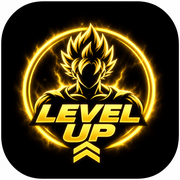
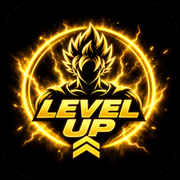
Add files via upload

diff --git a/index.html b/index.html
@@ -697,23 +697,132 @@ button.active,.tab-btn.active{border-color:var(--accent)!important;box-shadow:0 
 }
 
 
-/* V48 POWER-UP SPLASH */
-#powerSplash{position:fixed;inset:0;z-index:99999;overflow:hidden;display:flex;align-items:center;justify-content:center;background:#000;opacity:1;visibility:visible;transition:opacity .55s ease,visibility .55s ease}
+
+/* V49 TRANSFORMATION POWER-UP SPLASH */
+#powerSplash{
+  position:fixed; inset:0; z-index:99999; overflow:hidden;
+  display:flex; align-items:center; justify-content:center;
+  background:#000; opacity:1; visibility:visible;
+  transition:opacity .55s ease,visibility .55s ease;
+}
 #powerSplash.splash-hide{opacity:0;visibility:hidden;pointer-events:none}
-#powerSplash .splash-core{width:min(78vw,360px);text-align:center;position:relative;z-index:4}
-#powerSplash .splash-logo{width:100%;height:auto;display:block;margin:0 auto;filter:drop-shadow(0 0 14px rgba(255,202,0,.58));animation:splashPulse 1.1s ease-in-out infinite alternate}
-#powerSplash .splash-title{margin-top:16px;color:#ffd52d;font-weight:950;font-size:20px;letter-spacing:.16em;text-transform:uppercase;text-shadow:0 0 12px rgba(255,200,0,.72)}
-#powerSplash .splash-sub{margin-top:7px;color:#c9b76f;font-size:11px;font-weight:800;letter-spacing:.12em;text-transform:uppercase}
-#powerSplash .splash-track{width:84%;height:5px;margin:16px auto 0;border-radius:999px;background:rgba(255,216,64,.16);overflow:hidden}
-#powerSplash .splash-bar{width:0%;height:100%;border-radius:inherit;background:linear-gradient(90deg,#9d7200,#ffd32a,#fff3a0,#ffd32a);box-shadow:0 0 12px rgba(255,211,42,.85)}
-#powerSplash .bolt{position:absolute;z-index:2;width:4px;height:46vh;opacity:0;background:linear-gradient(to bottom,transparent,#ffe35c 18%,#fff 46%,#ffc400 72%,transparent);box-shadow:0 0 10px #ffd000,0 0 26px #ffb700;clip-path:polygon(42% 0,100% 0,62% 43%,93% 43%,17% 100%,38% 55%,6% 55%)}
-#powerSplash .b1{left:11%;top:-3%;transform:rotate(-13deg);animation:boltFlash 1.55s .15s infinite}
-#powerSplash .b2{right:10%;top:7%;transform:rotate(17deg);animation:boltFlash 1.75s .72s infinite}
-#powerSplash .b3{left:27%;bottom:-12%;height:35vh;transform:rotate(8deg);animation:boltFlash 1.9s 1.12s infinite}
-#powerSplash .b4{right:25%;bottom:-10%;height:33vh;transform:rotate(-9deg);animation:boltFlash 1.7s .38s infinite}
-@keyframes splashPulse{from{transform:scale(.965);filter:drop-shadow(0 0 8px rgba(255,202,0,.42))}to{transform:scale(1.015);filter:drop-shadow(0 0 22px rgba(255,202,0,.82))}}
-@keyframes boltFlash{0%,78%,100%{opacity:0}80%{opacity:.18}82%{opacity:1}85%{opacity:.28}88%{opacity:.9}92%{opacity:0}}
-@media(prefers-reduced-motion:reduce){#powerSplash .splash-logo,#powerSplash .bolt{animation:none!important}}
+#powerSplash .splash-core{
+  width:min(78vw,360px); text-align:center; position:relative; z-index:5;
+}
+#powerSplash .splash-logo{
+  width:100%; height:auto; display:block; margin:0 auto;
+  transform:scale(.88);
+  filter:brightness(.38) saturate(.45) drop-shadow(0 0 0 rgba(255,206,36,0));
+  animation:transformAwaken 5s cubic-bezier(.2,.75,.2,1) forwards;
+}
+#powerSplash .aura{
+  position:absolute; left:50%; top:50%; width:72vmin; height:72vmin;
+  transform:translate(-50%,-50%) scale(.2);
+  border-radius:50%; opacity:0; z-index:1; pointer-events:none;
+  background:radial-gradient(circle,
+    rgba(255,255,220,.94) 0%,
+    rgba(255,230,75,.70) 8%,
+    rgba(255,189,0,.38) 23%,
+    rgba(255,150,0,.12) 43%,
+    transparent 67%);
+  filter:blur(3px);
+  animation:auraBurst 5s ease-out forwards;
+}
+#powerSplash .shock{
+  position:absolute; left:50%; top:50%; width:34vmin; height:34vmin;
+  transform:translate(-50%,-50%) scale(.3);
+  border:3px solid rgba(255,231,99,.0); border-radius:50%;
+  z-index:2; pointer-events:none;
+  animation:shockRing 5s ease-out forwards;
+}
+#powerSplash .flash{
+  position:absolute; inset:0; background:#fff5b3; opacity:0; z-index:3;
+  pointer-events:none; animation:screenFlash 5s linear forwards;
+}
+#powerSplash .splash-title{
+  margin-top:16px; color:#ffd52d; font-weight:950; font-size:20px;
+  letter-spacing:.16em; text-transform:uppercase;
+  text-shadow:0 0 12px rgba(255,200,0,.72);
+  animation:titleCharge 5s ease-out forwards;
+}
+#powerSplash .splash-sub{
+  margin-top:7px; color:#c9b76f; font-size:11px; font-weight:800;
+  letter-spacing:.12em; text-transform:uppercase;
+}
+#powerSplash .splash-track{
+  width:84%; height:5px; margin:16px auto 0; border-radius:999px;
+  background:rgba(255,216,64,.16); overflow:hidden;
+}
+#powerSplash .splash-bar{
+  width:0%; height:100%; border-radius:inherit;
+  background:linear-gradient(90deg,#8c6500,#ffc800,#fff6b6,#ffd21e);
+  box-shadow:0 0 16px rgba(255,211,42,.9);
+}
+#powerSplash .bolt{
+  position:absolute; z-index:4; width:5px; height:48vh; opacity:0;
+  background:linear-gradient(to bottom,transparent 0%,#ffd400 14%,#fff 45%,#ffbd00 74%,transparent 100%);
+  box-shadow:0 0 11px #ffd000,0 0 28px #ffb300;
+  transform-origin:center;
+  clip-path:polygon(42% 0,100% 0,62% 43%,93% 43%,17% 100%,38% 55%,6% 55%);
+}
+#powerSplash .b1{left:9%;top:-4%;transform:rotate(-13deg);animation:boltCharge 1.12s .15s infinite}
+#powerSplash .b2{right:9%;top:4%;transform:rotate(17deg);animation:boltCharge 1.26s .5s infinite}
+#powerSplash .b3{left:24%;bottom:-13%;height:38vh;transform:rotate(8deg);animation:boltCharge 1.18s .9s infinite}
+#powerSplash .b4{right:23%;bottom:-12%;height:36vh;transform:rotate(-9deg);animation:boltCharge 1.08s .3s infinite}
+#powerSplash .b5{left:47%;top:-13%;height:34vh;transform:rotate(2deg);animation:boltCharge .94s 1.25s infinite}
+
+@keyframes transformAwaken{
+  0%{transform:scale(.88);filter:brightness(.35) saturate(.35) drop-shadow(0 0 0 rgba(255,206,36,0))}
+  22%{transform:scale(.91);filter:brightness(.52) saturate(.6) drop-shadow(0 0 5px rgba(255,206,36,.25))}
+  46%{transform:scale(.95);filter:brightness(.82) saturate(.82) drop-shadow(0 0 10px rgba(255,206,36,.45))}
+  64%{transform:scale(1.01);filter:brightness(1.18) saturate(1.05) drop-shadow(0 0 20px rgba(255,206,36,.78))}
+  72%{transform:scale(1.055);filter:brightness(1.75) saturate(1.12) drop-shadow(0 0 34px rgba(255,231,112,1))}
+  78%{transform:scale(1.01);filter:brightness(1.15) saturate(1.05) drop-shadow(0 0 24px rgba(255,206,36,.82))}
+  100%{transform:scale(1);filter:brightness(1.06) saturate(1.04) drop-shadow(0 0 18px rgba(255,206,36,.72))}
+}
+@keyframes auraBurst{
+  0%,38%{opacity:0;transform:translate(-50%,-50%) scale(.2)}
+  55%{opacity:.28;transform:translate(-50%,-50%) scale(.55)}
+  70%{opacity:.9;transform:translate(-50%,-50%) scale(1.02)}
+  78%{opacity:.48;transform:translate(-50%,-50%) scale(1.22)}
+  100%{opacity:.22;transform:translate(-50%,-50%) scale(1.38)}
+}
+@keyframes shockRing{
+  0%,66%{opacity:0;border-color:rgba(255,231,99,0);transform:translate(-50%,-50%) scale(.3)}
+  70%{opacity:1;border-color:rgba(255,244,180,.95);transform:translate(-50%,-50%) scale(.7)}
+  78%{opacity:.25;border-color:rgba(255,205,38,.55);transform:translate(-50%,-50%) scale(2.2)}
+  100%{opacity:0;transform:translate(-50%,-50%) scale(3.1)}
+}
+@keyframes screenFlash{
+  0%,68%,100%{opacity:0}
+  71%{opacity:.08}
+  72.5%{opacity:.55}
+  74%{opacity:.12}
+  76%{opacity:.32}
+  78%{opacity:0}
+}
+@keyframes titleCharge{
+  0%{opacity:.25;letter-spacing:.08em;transform:translateY(6px)}
+  50%{opacity:.75;letter-spacing:.14em}
+  72%{opacity:1;letter-spacing:.22em;text-shadow:0 0 24px rgba(255,223,74,1)}
+  100%{opacity:1;letter-spacing:.16em;transform:translateY(0)}
+}
+@keyframes boltCharge{
+  0%,70%,100%{opacity:0}
+  74%{opacity:.2}
+  78%{opacity:1}
+  82%{opacity:.3}
+  87%{opacity:.95}
+  93%{opacity:0}
+}
+@media(prefers-reduced-motion:reduce){
+  #powerSplash .splash-logo,#powerSplash .bolt,#powerSplash .aura,#powerSplash .shock,#powerSplash .flash,#powerSplash .splash-title{animation:none!important}
+  #powerSplash .splash-logo{transform:none;filter:none}
+}
+
+
+#powerSplash.quick-splash .splash-logo{animation-duration:2.5s}
+#powerSplash.quick-splash .aura,#powerSplash.quick-splash .shock,#powerSplash.quick-splash .flash,#powerSplash.quick-splash .splash-title{animation-duration:2.5s}
 
 </style>
 <style id="hamstring-final-image-fix">
@@ -839,11 +948,12 @@ html{background:#050b12}.wrap{padding-bottom:96px!important}.card{border:1px sol
 }
 </style>
 </head><body><div id="powerSplash" aria-label="Level Up loading screen">
-<div class="bolt b1"></div><div class="bolt b2"></div><div class="bolt b3"></div><div class="bolt b4"></div>
-<div class="splash-core"><img class="splash-logo" src="assets/level_up_logo_gold_compact_FINAL_v48.png" alt="Level Up">
+<div class="aura"></div><div class="shock"></div><div class="flash"></div>
+<div class="bolt b1"></div><div class="bolt b2"></div><div class="bolt b3"></div><div class="bolt b4"></div><div class="bolt b5"></div>
+<div class="splash-core"><img class="splash-logo" src="assets/level_up_logo_gold_edge_FINAL_v49.png" alt="Level Up">
 <div class="splash-title">Powering Up</div><div class="splash-sub">Loading your progression</div>
-<div class="splash-track"><div class="splash-bar" id="splashBar"></div></div></div></div>
-<header class="levelup-header"><div class="levelup-brand"><img src="assets/level_up_logo_gold_compact_FINAL_v48.png" alt="" class="levelup-mark"><div class="levelup-wordmark"><span>LEVEL</span><strong>UP</strong></div></div></header>
+<div class="splash-track"><div class="splash-bar" id="splashBar"></div></div></div></div></div></div>
+<header class="levelup-header"><div class="levelup-brand"><img src="assets/level_up_logo_gold_edge_FINAL_v49.png" alt="" class="levelup-mark"><div class="levelup-wordmark"><span>LEVEL</span><strong>UP</strong></div></div></header>
 <div class="wrap">
 <div id="progressView" class="tab-view active">
   <div class="card hero"><div class="eyebrow">Current fitness level</div><div id="currentChar" class="big">Hawkeye</div><div id="heroMedia"><img src="assets/01_hawkeye_v36.jpeg" alt="Hawkeye" class="demo-image-clean char-image show"></div><div id="currentMeta" class="meta">Level 1 • Foundation</div><div class="progress"><div id="bar" class="bar"></div></div><div id="nextBox" class="next-level-card"><h3>Next Level</h3><div>Enter your current bests, assessments and tap Calculate Rankings.</div></div></div>
@@ -931,7 +1041,7 @@ calcBtn.onclick=calculate;loadData();setMode(mode);setCardioMode(cardioMode);try
  if(!splash)return;
  const ver='v48'; let first=true;
  try{first=localStorage.getItem('levelUpSplashVersion')!==ver}catch(e){}
- const duration=first?5000:2500;
+ const duration=first?5000:2500;if(!first)splash.classList.add('quick-splash');
  if(bar){bar.style.transition='width '+(duration-300)+'ms cubic-bezier(.22,.7,.2,1)';requestAnimationFrame(()=>requestAnimationFrame(()=>bar.style.width='100%'))}
  setTimeout(()=>{splash.classList.add('splash-hide');try{localStorage.setItem('levelUpSplashVersion',ver)}catch(e){}setTimeout(()=>splash.remove(),650)},duration);
 })();

diff --git a/service-worker.js b/service-worker.js
@@ -1,5 +1,5 @@
-const CACHE='level-up-fitness-v48-power-splash-20260905';
+const CACHE='level-up-fitness-v49-transform-splash-20260905';
 const PREFIX='level-up-fitness-';
-self.addEventListener('install',e=>{self.skipWaiting();e.waitUntil(caches.open(CACHE).then(c=>c.addAll(['./','./index.html','./manifest.webmanifest','./icon-192.png','./icon-512.png','./apple-touch-icon.png','./assets/level_up_logo_gold_compact_FINAL_v48.png'])))});
+self.addEventListener('install',e=>{self.skipWaiting();e.waitUntil(caches.open(CACHE).then(c=>c.addAll(['./','./index.html','./manifest.webmanifest','./icon-192.png','./icon-512.png','./apple-touch-icon.png','./assets/level_up_logo_gold_edge_FINAL_v49.png'])))});
 self.addEventListener('activate',e=>{e.waitUntil(caches.keys().then(keys=>Promise.all(keys.filter(k=>k.startsWith(PREFIX)&&k!==CACHE).map(k=>caches.delete(k)))).then(()=>self.clients.claim()))});
 self.addEventListener('fetch',e=>{if(e.request.method!=='GET')return;e.respondWith(fetch(e.request).then(r=>{const copy=r.clone();caches.open(CACHE).then(c=>c.put(e.request,copy));return r}).catch(()=>caches.match(e.request).then(r=>r||caches.match('./index.html'))))});
